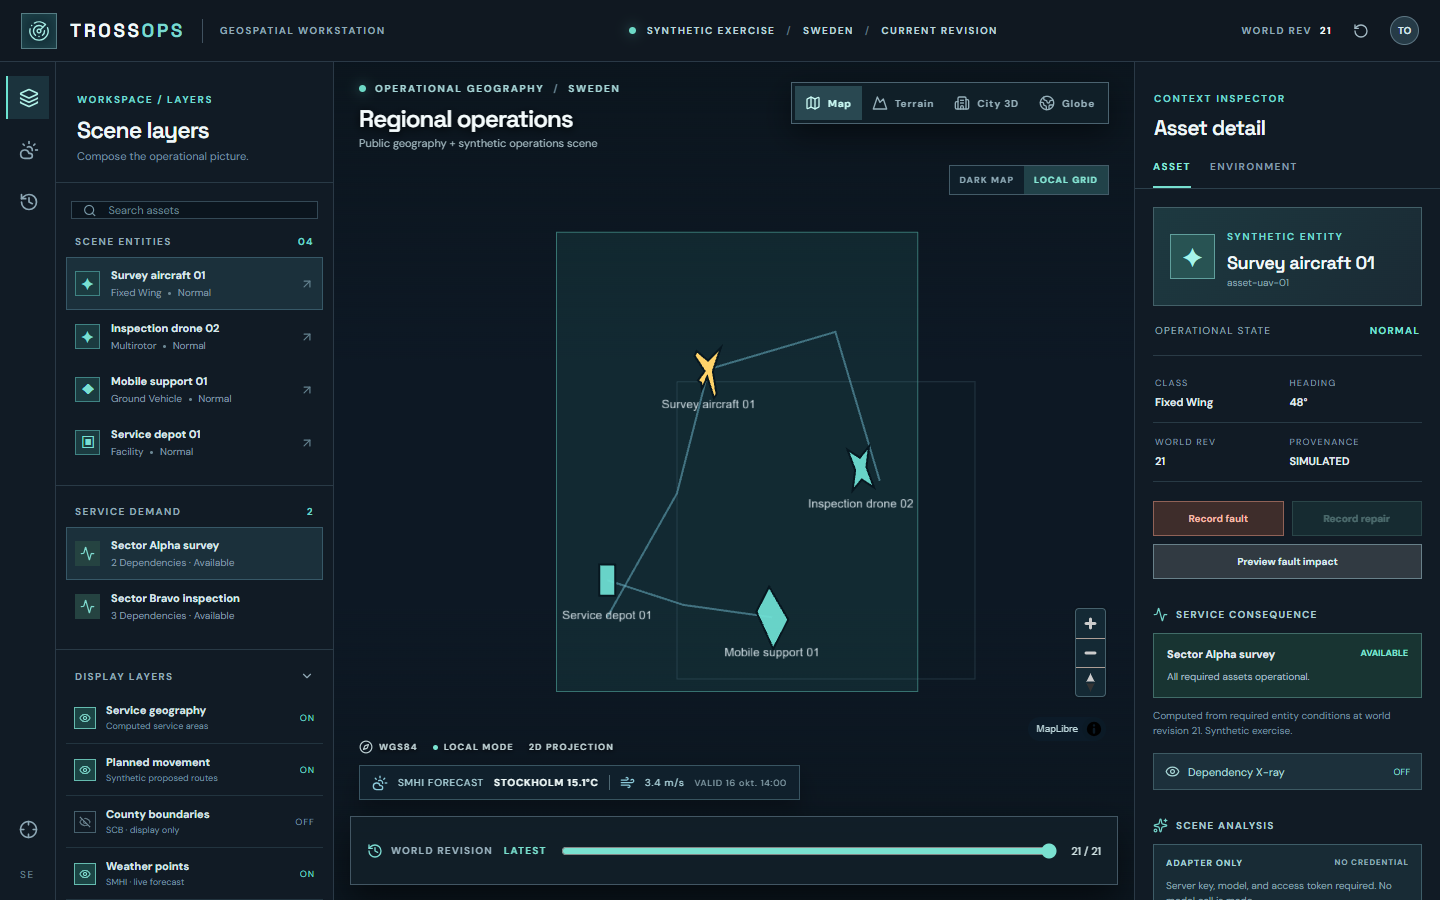
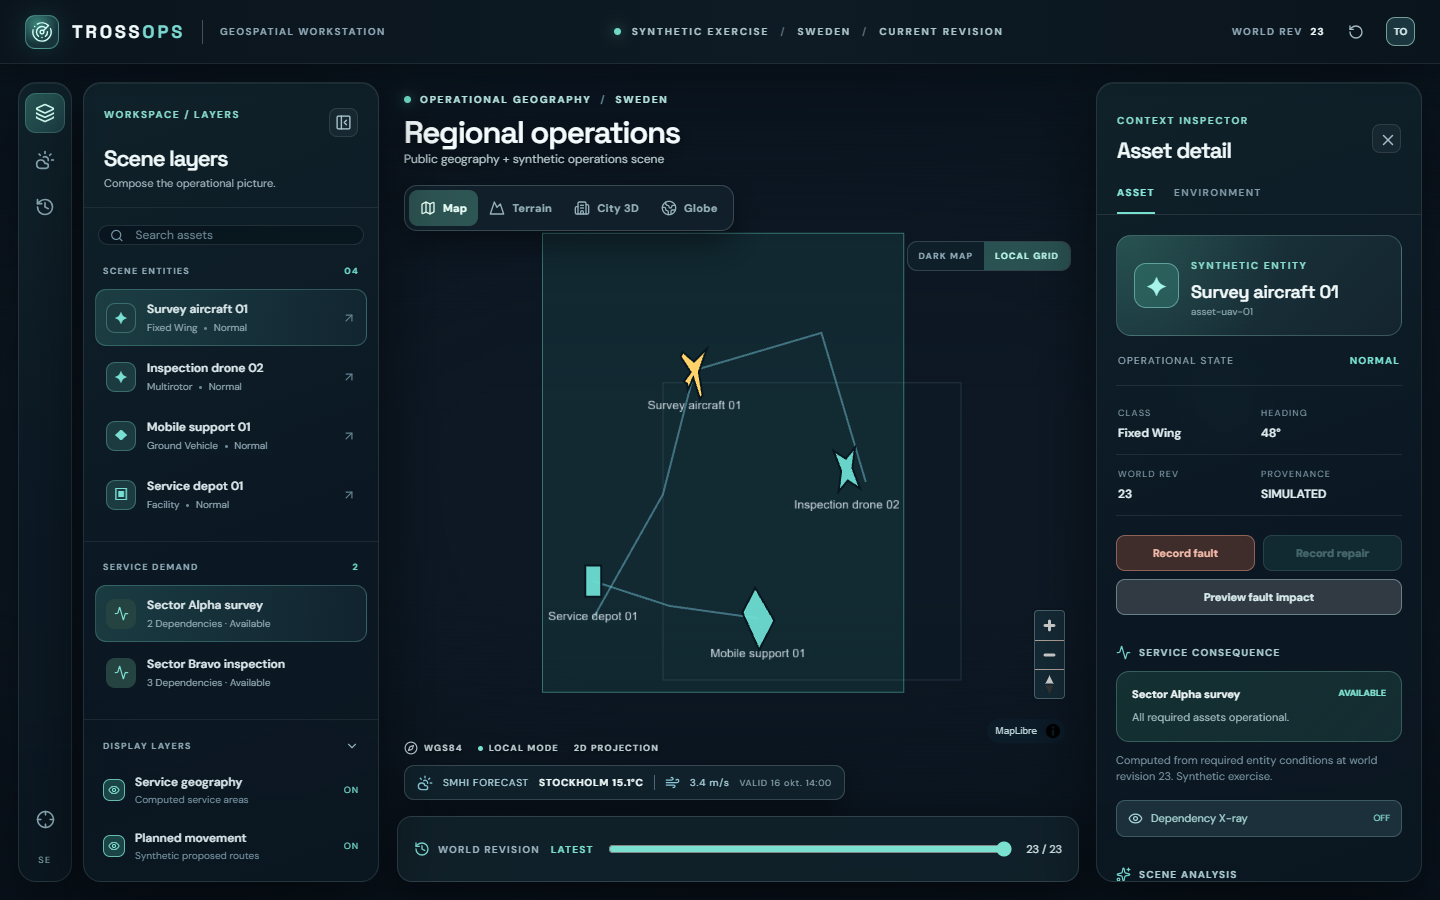
feat: redesign geospatial workspace as responsive map canvas

diff --git a/frontend/src/visual-rework.css b/frontend/src/visual-rework.css
@@ -1,0 +1,96 @@
+:root{color:#edf5f6;background:#071019}
+button{transition:background-color .18s ease,border-color .18s ease,color .18s ease,transform .18s ease}
+button:focus-visible,input:focus-visible{outline:2px solid #a0f3df;outline-offset:2px}
+.ws-shell{height:100vh;overflow:hidden;background:#071019}
+.ws-topbar{height:64px;padding:0 25px;background:linear-gradient(90deg,#0a141d 0%,#0e1b24 55%,#0a141d 100%);border-bottom:1px solid #7896a526;box-shadow:0 8px 30px #0004;position:relative;z-index:12}
+.ws-brand-icon{width:34px;height:34px;border:1px solid #85e6d866;border-radius:10px;background:radial-gradient(circle at 35% 25%,#3c867c,#16343a 65%);box-shadow:0 0 24px #46c6b82b;color:#d7fff8}
+.ws-wordmark{font-size:18px;letter-spacing:.16em}
+.ws-top-center{font-size:10px;color:#abc6ca;letter-spacing:.19em}
+.ws-top-actions button{border-radius:9px;width:31px;height:31px}
+.ws-top-actions button:hover{background:#ffffff12}
+.ws-avatar{border-radius:9px;background:#1b363f;border-color:#759d9a}
+.ws-shell .ws-body{display:block;position:relative;height:calc(100vh - 64px);min-height:520px;overflow:hidden}
+.ws-shell .ws-stage{position:absolute;inset:0;display:block;z-index:0;background:#0b1922}
+.ws-stage-vignette{background:linear-gradient(180deg,#071019ae 0%,#07101928 20%,transparent 42%,transparent 64%,#071019b8 100%),radial-gradient(circle at 53% 48%,transparent 32%,#0610184d 100%)}
+.ws-shell .ws-rail,.ws-shell .ws-sidebar,.ws-shell .ws-inspector{position:absolute;z-index:7;border:1px solid #9ebabe27;background:linear-gradient(160deg,#10222ae9,#0b1823e9 58%,#0b1720ee);backdrop-filter:blur(22px) saturate(135%);-webkit-backdrop-filter:blur(22px) saturate(135%);box-shadow:0 22px 65px #0009,0 1px 0 #ffffff11 inset;border-radius:18px}
+.ws-shell .ws-rail{left:18px;top:18px;bottom:18px;width:54px;display:flex;padding:10px 0 15px;align-items:center}
+.ws-rail-group,.ws-rail-bottom{gap:7px}
+.ws-rail button{width:40px;height:40px;border:0;border-radius:11px;color:#8cabb6}
+.ws-rail button:hover,.ws-rail button.active{border:0;background:linear-gradient(135deg,#347368a8,#224e55a8);color:#d5fff4;box-shadow:0 0 0 1px #77cabe44 inset}
+.ws-rail-bottom span{font-size:9px;color:#83a8af}
+.ws-shell .ws-sidebar{left:83px;top:18px;bottom:18px;width:296px;overflow-y:auto;overflow-x:hidden;display:flex;transition:transform .28s ease,opacity .28s ease}
+.ws-shell .ws-inspector{right:18px;top:18px;bottom:18px;width:326px;overflow-y:auto;overflow-x:hidden;display:flex;transition:transform .28s ease,opacity .28s ease}
+.ws-shell.sidebar-collapsed .ws-sidebar{transform:translateX(calc(-100% - 100px));opacity:0;pointer-events:none}
+.ws-shell.inspector-collapsed .ws-inspector{transform:translateX(calc(100% + 40px));opacity:0;pointer-events:none}
+.ws-sidebar-heading{padding:25px 20px 17px;border-color:#ffffff12}
+.ws-panel-heading-line{display:flex;align-items:flex-start;justify-content:space-between;gap:8px}
+.ws-panel-heading-line button{display:grid;place-items:center;flex:none;width:29px;height:29px;padding:0;color:#a6c0c8;border:1px solid #ffffff1a;border-radius:8px;background:#ffffff0a}
+.ws-panel-heading-line button:hover{background:#ffffff1c;color:#fff}
+.ws-sidebar h1,.ws-inspector h2{font-size:22px;letter-spacing:-.045em}
+.ws-eyebrow{letter-spacing:.16em;color:#88dccc}
+.ws-sidebar-heading p{font-size:11px;color:#a1b5bd}
+.ws-search{height:41px;margin:17px 14px 20px;border-radius:11px;border-color:#8fafb52c;background:#06131bb5}
+.ws-search input{font-size:12px}
+.ws-list-head{margin-bottom:10px;font-size:9px;color:#8facb7}
+.ws-list-head.ws-spaced{border-color:#ffffff13}
+.ws-asset-list,.ws-service-list,.ws-city-list,.ws-event-list{padding:0 11px}
+.ws-asset,.ws-service,.ws-city{padding:11px 10px;border-radius:11px;margin:2px 0;gap:11px}
+.ws-asset:hover,.ws-asset.active,.ws-service:hover,.ws-service.active,.ws-city:hover,.ws-city.active{background:linear-gradient(95deg,#2b60617d,#1b354064);border-color:#76c8be4a}
+.ws-asset strong,.ws-service strong,.ws-city strong{font-size:12px;font-weight:600}
+.ws-asset small,.ws-service small,.ws-city small{font-size:10px;color:#91aab4}
+.ws-asset-symbol,.ws-service-icon{width:30px;height:30px;border-radius:9px;border-color:#7bd5c653}
+.ws-layer-row{border:0;border-radius:10px;margin-bottom:2px;padding:11px 9px}
+.ws-layer-row:hover{background:#ffffff0d}
+.ws-layer-copy strong{font-size:12px;font-weight:600}
+.ws-layer-copy small{font-size:10px}
+.ws-check{border-radius:7px}
+.ws-sidebar-footer{border-color:#ffffff13;font-size:10px}
+.ws-source-note{border-radius:12px;background:#1b3c424f;border-color:#8fd8d136;font-size:11px}
+.ws-event{border-color:#ffffff13}
+.ws-scene-header{left:404px;right:369px;top:29px;gap:18px;align-items:flex-start;transition:left .28s ease,right .28s ease}
+.ws-scene-kicker{font-size:10px;letter-spacing:.18em;color:#b6e5df}
+.ws-scene-header h2{font-size:31px;font-weight:600;margin:9px 0 2px;line-height:1.1;text-shadow:0 3px 18px #0009}
+.ws-scene-header p{font-size:12px;color:#b4c8cb;text-shadow:0 2px 10px #000}
+.ws-mode-switch{flex:none;border-radius:13px;padding:4px;border-color:#c0dcda39;background:#10212bda;backdrop-filter:blur(18px);box-shadow:0 12px 35px #0007}
+.ws-mode-switch button{border-radius:9px;padding:10px 11px;letter-spacing:.03em;font-size:11px}
+.ws-mode-switch button:hover,.ws-mode-switch button.active{background:#46857886;color:#eafff8}
+.ws-map-tools{right:369px;top:112px;border-radius:10px;overflow:hidden;background:#10212bce;border-color:#c0dcda30;transition:right .28s ease}
+.ws-map-tools button{font-size:9px;padding:8px 11px}
+.ws-map-tools button.active{background:#386d69a6;color:#b8f7e9}
+.ws-map-meta{left:404px;bottom:145px;transition:left .28s ease}
+.ws-weather-ribbon{left:404px;bottom:100px;max-width:calc(100% - 792px);border-radius:10px;background:#10232ddc;border-color:#bedbd738;backdrop-filter:blur(14px);box-shadow:0 12px 30px #0006;transition:left .28s ease}
+.ws-timeline{left:397px;right:361px;bottom:18px;height:66px;border-radius:15px;background:#10212be9;border-color:#b7d2d531;backdrop-filter:blur(18px);box-shadow:0 16px 42px #0009;transition:left .28s ease,right .28s ease}
+.ws-timeline button{border-radius:8px}
+.ws-preview-banner{left:404px;top:166px;border-radius:12px;backdrop-filter:blur(15px)}
+.ws-preview-banner button{border-radius:7px}
+.ws-error{left:404px;right:369px;top:154px;border-radius:11px}
+.ws-shell.sidebar-collapsed .ws-scene-header,.ws-shell.sidebar-collapsed .ws-map-meta,.ws-shell.sidebar-collapsed .ws-weather-ribbon,.ws-shell.sidebar-collapsed .ws-preview-banner,.ws-shell.sidebar-collapsed .ws-error{left:101px}
+.ws-shell.sidebar-collapsed .ws-timeline{left:94px}
+.ws-shell.inspector-collapsed .ws-scene-header,.ws-shell.inspector-collapsed .ws-error{right:24px}
+.ws-shell.inspector-collapsed .ws-map-tools{right:24px}
+.ws-shell.inspector-collapsed .ws-timeline{right:18px}
+.ws-shell.inspector-collapsed .ws-weather-ribbon{max-width:calc(100% - 130px)}
+.ws-inspector-head{padding:25px 20px 18px}
+.ws-inspector-head button{width:29px;height:29px;border:1px solid #ffffff1a;border-radius:8px;background:#ffffff0a}
+.ws-inspector-tabs{border-color:#ffffff18;padding:0 20px}
+.ws-inspector-content{padding:20px 19px 26px}
+.ws-object-card{border-radius:15px;padding:17px;background:radial-gradient(circle at 5% 0%,#3e847252,transparent 53%),linear-gradient(135deg,#1c3940,#14242f);border-color:#a3d8cd42}
+.ws-object-icon{border-radius:12px;background:#31756c8c}
+.ws-status-line,.ws-detail-grid>div,.ws-mini-events>div,.ws-weather-metrics>div,.ws-forecast-meta>div{border-color:#ffffff15}
+.ws-detail-grid span,.ws-forecast-meta span{font-size:9px}
+.ws-detail-grid b,.ws-forecast-meta b{font-size:12px}
+.ws-object-actions button,.ws-preview-actions button,.ws-ai-card>button{border-radius:9px;font-size:11px}
+.ws-section-title{font-size:10px;margin-top:30px}
+.ws-consequence{border-radius:13px;padding:15px;background:linear-gradient(135deg,#1e48407d,#142d32);border-color:#7cbbac55}
+.ws-consequence.unavailable{background:linear-gradient(135deg,#663b32a6,#2b2228);border-color:#db8c735c}
+.ws-xray{border-radius:9px}
+.ws-ai-card{border-radius:13px;padding:14px;background:linear-gradient(135deg,#1e394183,#14242f);border-color:#80b9b444}
+.ws-ai-card>p,.ws-consequence p,.ws-evidence{font-size:11px}
+.ws-weather-hero{border-radius:16px;background:radial-gradient(circle at 17% 20%,#458f926e,#1a343d 62%);border-color:#9fd6d04d}
+.ws-inspector-footer{border-color:#ffffff17}
+.ws-stage .maplibregl-ctrl-bottom-right{bottom:147px;right:365px}
+@media(max-width:1500px){.ws-scene-header{display:block}.ws-mode-switch{width:max-content;margin-top:18px}.ws-map-tools{top:177px}.ws-preview-banner{top:216px}}
+@media(max-width:1180px){.ws-shell .ws-sidebar{width:255px}.ws-shell .ws-inspector{width:288px}.ws-scene-header,.ws-map-meta,.ws-weather-ribbon,.ws-preview-banner,.ws-error{left:365px}.ws-timeline{left:358px;right:323px}.ws-scene-header,.ws-error{right:329px}.ws-map-tools{right:329px}.ws-weather-ribbon{max-width:calc(100% - 700px)}.ws-stage .maplibregl-ctrl-bottom-right{right:324px}}
+@media(max-width:900px){.ws-shell .ws-sidebar{width:278px}.ws-shell .ws-inspector{width:310px}.ws-scene-header,.ws-map-meta,.ws-weather-ribbon,.ws-preview-banner,.ws-error{left:385px}.ws-timeline{left:378px;right:18px}.ws-scene-header,.ws-error{right:24px}.ws-map-tools{right:24px}.ws-weather-ribbon{max-width:calc(100% - 420px)}.ws-shell.inspector-collapsed .ws-inspector{transform:translateX(calc(100% + 40px))}.ws-stage .maplibregl-ctrl-bottom-right{right:18px}.ws-shell:not(.inspector-collapsed) .ws-timeline{right:328px}.ws-shell:not(.inspector-collapsed) .ws-scene-header{right:328px}.ws-shell:not(.inspector-collapsed) .ws-map-tools{right:328px}}
+@media(max-width:760px){.ws-shell .ws-body{height:calc(100dvh - 64px);min-height:460px}.ws-topbar{padding:0 14px}.ws-top-revision{font-size:9px}.ws-shell .ws-rail{left:10px;top:10px;bottom:auto;width:50px;padding:7px 0;max-height:calc(100% - 20px)}.ws-rail button{width:37px;height:37px}.ws-rail-bottom{display:none}.ws-shell .ws-sidebar{left:69px;top:10px;bottom:10px;width:min(312px,calc(100vw - 80px))}.ws-shell .ws-inspector{left:69px;right:10px;top:auto;bottom:10px;width:auto;height:min(58dvh,580px);max-height:none}.ws-shell.inspector-collapsed .ws-inspector{transform:translateY(calc(100% + 30px))}.ws-scene-header,.ws-shell.sidebar-collapsed .ws-scene-header{left:73px;right:10px;top:17px;display:block}.ws-scene-kicker{font-size:8px;letter-spacing:.09em;gap:5px}.ws-scene-header h2{font-size:22px;margin-top:7px}.ws-scene-header p{display:none}.ws-mode-switch{margin-top:13px;max-width:calc(100vw - 85px);overflow-x:auto}.ws-mode-switch button{font-size:10px;padding:9px 8px;white-space:nowrap}.ws-mode-switch button svg{width:13px}.ws-map-tools,.ws-shell.inspector-collapsed .ws-map-tools{right:10px;top:136px}.ws-map-tools button{font-size:8px;padding:7px 8px}.ws-map-meta,.ws-shell.sidebar-collapsed .ws-map-meta{left:73px;bottom:131px;font-size:8px;gap:8px}.ws-map-meta span:last-child{display:none}.ws-weather-ribbon,.ws-shell.sidebar-collapsed .ws-weather-ribbon{left:73px;bottom:87px;max-width:calc(100vw - 83px);padding:0 9px;gap:6px;font-size:9px}.ws-weather-ribbon>span:nth-child(2),.ws-weather-ribbon small{display:none}.ws-timeline,.ws-shell.sidebar-collapsed .ws-timeline,.ws-shell.inspector-collapsed .ws-timeline{left:69px;right:10px;bottom:10px;height:63px;padding:0 10px;gap:7px}.ws-timeline-title span{display:none}.ws-timeline-title b{display:none}.ws-timeline-count{font-size:10px}.ws-preview-banner,.ws-shell.sidebar-collapsed .ws-preview-banner{left:73px;right:10px;top:184px;flex-wrap:wrap;font-size:9px}.ws-error,.ws-shell.sidebar-collapsed .ws-error{left:73px;right:10px;top:183px}.ws-stage .maplibregl-ctrl-bottom-right{right:8px;bottom:143px}.ws-shell:not(.inspector-collapsed) .ws-timeline{right:10px}.ws-shell:not(.inspector-collapsed) .ws-scene-header{right:10px}.ws-shell:not(.inspector-collapsed) .ws-map-tools{right:10px}}
+@media(prefers-reduced-motion:reduce){button,.ws-shell .ws-sidebar,.ws-shell .ws-inspector,.ws-scene-header,.ws-timeline,.ws-weather-ribbon,.ws-map-tools{transition:none}}

diff --git a/frontend/src/App.tsx b/frontend/src/App.tsx
@@ -2,7 +2,7 @@ import { useEffect, useRef, useState } from 'react'
 import {
   Activity, AlertTriangle, ArrowUpRight, Building2, ChevronDown, CloudSun, Compass,
   Crosshair, Database, Eye, EyeOff, Globe2, History, Layers3, Map as MapIcon,
-  MapPin, Mountain, Radar, RotateCcw, Search, Shield, Sparkles, Thermometer, Wind,
+  MapPin, Mountain, PanelLeftClose, Radar, RotateCcw, Search, Shield, Sparkles, Thermometer, Wind, X,
 } from 'lucide-react'
 import { MapScene } from './MapScene'
 import type { Entity, Forecast, ScenarioPreview, Scene, ViewMode } from './types'
@@ -69,6 +69,8 @@ export function App() {
   const [analysisAccessToken, setAnalysisAccessToken] = useState('')
   const [preview, setPreview] = useState<ScenarioPreview | null>(null)
   const [previewBusy, setPreviewBusy] = useState(false)
+  const [sidebarOpen, setSidebarOpen] = useState(() => window.innerWidth > 760)
+  const [inspectorOpen, setInspectorOpen] = useState(() => window.innerWidth > 760)
   const revisionRequest = useRef(0)
 
   const displayScene = preview?.candidate ?? scene
@@ -171,13 +173,19 @@ export function App() {
   function focusCity(key: string) {
     setSelectedLocation(key)
     setInspectorTab('environment')
+    setInspectorOpen(true)
     const point = forecasts.find(item => item.location === key)?.gridPoint ?? pointFallbacks[key]
     setFocus({ point, zoom: 9.4, key: Date.now() })
   }
 
-  function selectAsset(id: string) { setSelectedId(id); setInspectorTab('asset') }
+  function selectAsset(id: string) { setSelectedId(id); setInspectorTab('asset'); setInspectorOpen(true) }
 
-  return <div className="ws-shell">
+  function openPanel(next: Panel) {
+    setSidebarOpen(current => next === panel ? !current : true)
+    setPanel(next)
+  }
+
+  return <div className={`ws-shell ${sidebarOpen ? '' : 'sidebar-collapsed'} ${inspectorOpen ? '' : 'inspector-collapsed'}`}>
     <header className="ws-topbar">
       <div className="ws-brand"><div className="ws-brand-icon"><Radar size={22} strokeWidth={1.5} /></div><span className="ws-wordmark">TROSS<span>OPS</span></span><span className="ws-brand-rule" /><span className="ws-product">GEOSPATIAL WORKSTATION</span></div>
       <div className="ws-top-center"><span className="ws-online-pip" /> SYNTHETIC EXERCISE <span className="ws-top-separator">/</span> SWEDEN <span className="ws-top-separator">/</span> {preview ? 'WHAT-IF PREVIEW' : replaying ? 'REPLAY' : 'CURRENT REVISION'}</div>
@@ -186,12 +194,12 @@ export function App() {
 
     <div className="ws-body">
       <nav className="ws-rail" aria-label="Workstation panels">
-        <div className="ws-rail-group"><button className={panel === 'layers' ? 'active' : ''} title="Layers" aria-label="Layers" onClick={() => setPanel('layers')}><Layers3 size={20} /></button><button className={panel === 'environment' ? 'active' : ''} title="Environment" aria-label="Environment" onClick={() => setPanel('environment')}><CloudSun size={20} /></button><button className={panel === 'activity' ? 'active' : ''} title="Activity" aria-label="Activity" onClick={() => setPanel('activity')}><History size={20} /></button></div>
+        <div className="ws-rail-group"><button className={sidebarOpen && panel === 'layers' ? 'active' : ''} title="Layers" aria-label="Layers" aria-pressed={sidebarOpen && panel === 'layers'} onClick={() => openPanel('layers')}><Layers3 size={20} /></button><button className={sidebarOpen && panel === 'environment' ? 'active' : ''} title="Environment" aria-label="Environment" aria-pressed={sidebarOpen && panel === 'environment'} onClick={() => openPanel('environment')}><CloudSun size={20} /></button><button className={sidebarOpen && panel === 'activity' ? 'active' : ''} title="Activity" aria-label="Activity" aria-pressed={sidebarOpen && panel === 'activity'} onClick={() => openPanel('activity')}><History size={20} /></button></div>
         <div className="ws-rail-bottom"><button title="Focus Sweden" aria-label="Focus Sweden" onClick={() => setFocus({ point: [17, 63], zoom: 4.5, key: Date.now() })}><Crosshair size={19} /></button><span>SE</span></div>
       </nav>
 
       <aside className="ws-sidebar">
-        <div className="ws-sidebar-heading"><span className="ws-eyebrow">WORKSPACE / {panel.toUpperCase()}</span><h1>{panel === 'layers' ? 'Scene layers' : panel === 'environment' ? 'Environment' : 'Activity log'}</h1><p>{panel === 'layers' ? 'Compose the operational picture.' : panel === 'environment' ? 'Public forecasts from SMHI.' : 'Revisioned synthetic event history.'}</p></div>
+        <div className="ws-sidebar-heading"><div className="ws-panel-heading-line"><span className="ws-eyebrow">WORKSPACE / {panel.toUpperCase()}</span><button title="Close sidebar" aria-label="Close sidebar" onClick={() => setSidebarOpen(false)}><PanelLeftClose size={17} /></button></div><h1>{panel === 'layers' ? 'Scene layers' : panel === 'environment' ? 'Environment' : 'Activity log'}</h1><p>{panel === 'layers' ? 'Compose the operational picture.' : panel === 'environment' ? 'Public forecasts from SMHI.' : 'Revisioned synthetic event history.'}</p></div>
         {panel === 'layers' && <>
           <AssetList entities={displayScene?.entities ?? []} selectedId={selectedId} search={search} setSearch={setSearch} onSelect={selectAsset} />
           <div className="ws-list-head ws-spaced"><span>SERVICE DEMAND</span><span>{scene?.services.length ?? 0}</span></div>
@@ -220,7 +228,7 @@ export function App() {
         {error && <div role="alert" className="ws-error"><AlertTriangle size={16} /><span>{error}</span><button onClick={() => void refreshScene()}>Reload scene</button></div>}
       </main>
 
-      <aside className="ws-inspector"><div className="ws-inspector-head"><div><span className="ws-eyebrow">CONTEXT INSPECTOR</span><h2>{inspectorTab === 'asset' ? 'Asset detail' : 'Environmental data'}</h2></div></div><div className="ws-inspector-tabs"><button className={inspectorTab === 'asset' ? 'active' : ''} onClick={() => setInspectorTab('asset')}>ASSET</button><button className={inspectorTab === 'environment' ? 'active' : ''} onClick={() => setInspectorTab('environment')}>ENVIRONMENT</button></div>
+      <aside className="ws-inspector"><div className="ws-inspector-head"><div><span className="ws-eyebrow">CONTEXT INSPECTOR</span><h2>{inspectorTab === 'asset' ? 'Asset detail' : 'Environmental data'}</h2></div><button title="Close inspector" aria-label="Close inspector" onClick={() => setInspectorOpen(false)}><X size={18} /></button></div><div className="ws-inspector-tabs"><button className={inspectorTab === 'asset' ? 'active' : ''} onClick={() => setInspectorTab('asset')}>ASSET</button><button className={inspectorTab === 'environment' ? 'active' : ''} onClick={() => setInspectorTab('environment')}>ENVIRONMENT</button></div>
         {inspectorTab === 'asset' ? <div className="ws-inspector-content"><div className="ws-object-card"><div className="ws-object-icon">{selected?.kind === 'facility' ? '▣' : selected?.kind === 'ground_vehicle' ? '◆' : '✦'}</div><div><span className="ws-eyebrow">{preview ? 'HYPOTHETICAL ENTITY' : 'SYNTHETIC ENTITY'}</span><h3>{selected?.label ?? 'Select an asset'}</h3><p>{selected?.resourceId ?? 'No selection'}</p></div></div>{selected && <><div className="ws-status-line"><span>OPERATIONAL STATE</span><b className={selected.condition}>{selected.condition.toUpperCase()}</b></div><div className="ws-detail-grid"><div><span>CLASS</span><b>{selected.kind.replace('_', ' ')}</b></div><div><span>HEADING</span><b>{selected.headingDeg}°</b></div><div><span>WORLD REV</span><b>{selected.worldRevision}</b></div><div><span>PROVENANCE</span><b>{preview ? 'WHAT-IF' : 'SIMULATED'}</b></div></div><div className="ws-object-actions"><button disabled={busy || replaying || !!preview || selected.condition === 'unavailable'} onClick={() => void update('fault')}>Record fault</button><button disabled={busy || replaying || !!preview || selected.condition === 'normal'} onClick={() => void update('repair')}>Record repair</button></div><div className="ws-preview-actions">{preview ? <button onClick={() => setPreview(null)}>Return to current world</button> : <button disabled={previewBusy} onClick={() => void previewEvent(selected.condition === 'unavailable' ? 'repair' : 'fault')}>{previewBusy ? 'Computing preview…' : `Preview ${selected.condition === 'unavailable' ? 'repair' : 'fault'} impact`}</button>}</div></>}
           <div className="ws-section-title"><Activity size={15} /> SERVICE CONSEQUENCE</div><div className={`ws-consequence ${service?.status ?? ''}`}><div><span>{service?.label ?? 'Loading...'}</span><b>{service?.status?.toUpperCase() ?? '—'}</b></div><p>{service?.blockers.length ? service.blockers.join(' · ') : 'All required assets operational.'}</p></div><p className="ws-evidence">Computed from required entity conditions at world revision {scene?.worldRevision ?? '—'}. Synthetic exercise.</p><button className={`ws-xray ${layers.dependencies ? 'active' : ''}`} onClick={() => toggleLayer('dependencies')}><Eye size={15} /> Dependency X-ray <span>{layers.dependencies ? 'ON' : 'OFF'}</span></button>
           <div className="ws-section-title"><Sparkles size={15} /> SCENE ANALYSIS</div><div className="ws-ai-card"><div className="ws-ai-status"><span>{analysisStatus === 'configured' ? 'OPENAI ADAPTER READY' : 'ADAPTER ONLY'}</span><b>{analysisStatus === 'configured' ? 'CONFIGURED' : 'NO CREDENTIAL'}</b></div>{analysisStatus === 'configured' ? <><input type="password" aria-label="Analysis access token" placeholder="Analysis access token" value={analysisAccessToken} onChange={event => setAnalysisAccessToken(event.target.value)} /><button disabled={analysisBusy || !analysisAccessToken || !!preview} onClick={() => void requestAnalysis()}>{analysisBusy ? 'Generating…' : 'Analyze selected service'}</button></> : <p>Server key, model, and access token required. No model call is made.</p>}{preview && <p>Model analysis uses committed revisions. Exit preview first.</p>}{!preview && analysis && analysis.worldRevision === scene?.worldRevision && analysis.serviceId === selectedServiceId && <div className="ws-ai-answer"><span>MODEL GENERATED · {analysis.model} · REV {analysis.worldRevision}</span><p>{analysis.answer}</p></div>}</div>

diff --git a/frontend/src/main.tsx b/frontend/src/main.tsx
@@ -12,6 +12,7 @@ import './studio.css'
 import './analysis.css'
 import './analysis-access.css'
 import './preview.css'
+import './visual-rework.css'
 import { App } from './App'
 
 createRoot(document.getElementById('root')!).render(<React.StrictMode><App /></React.StrictMode>)
